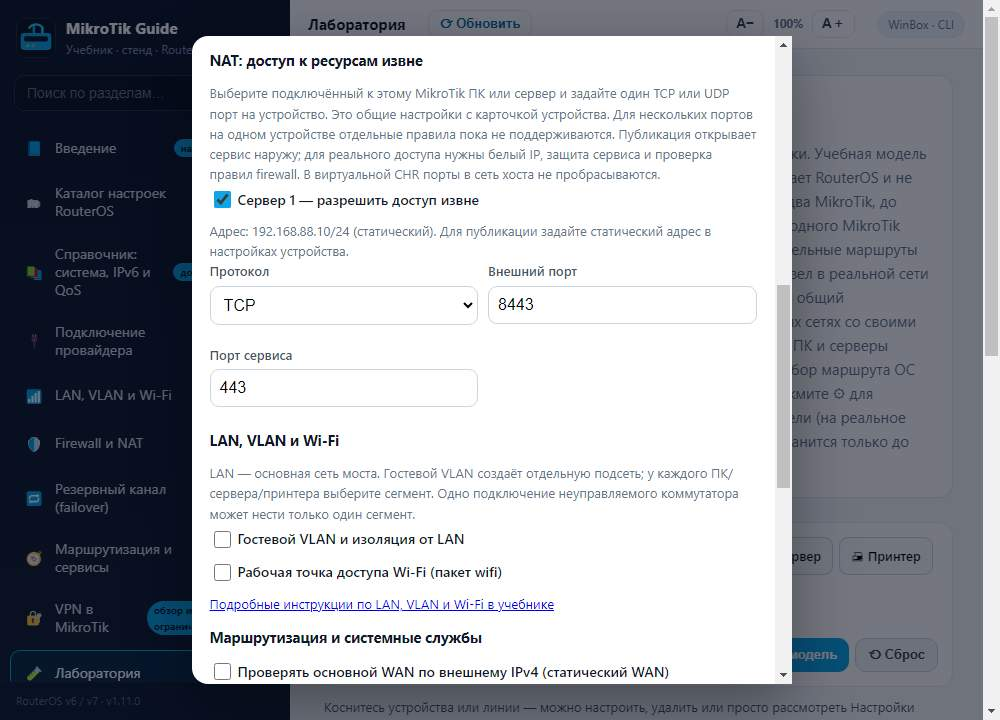
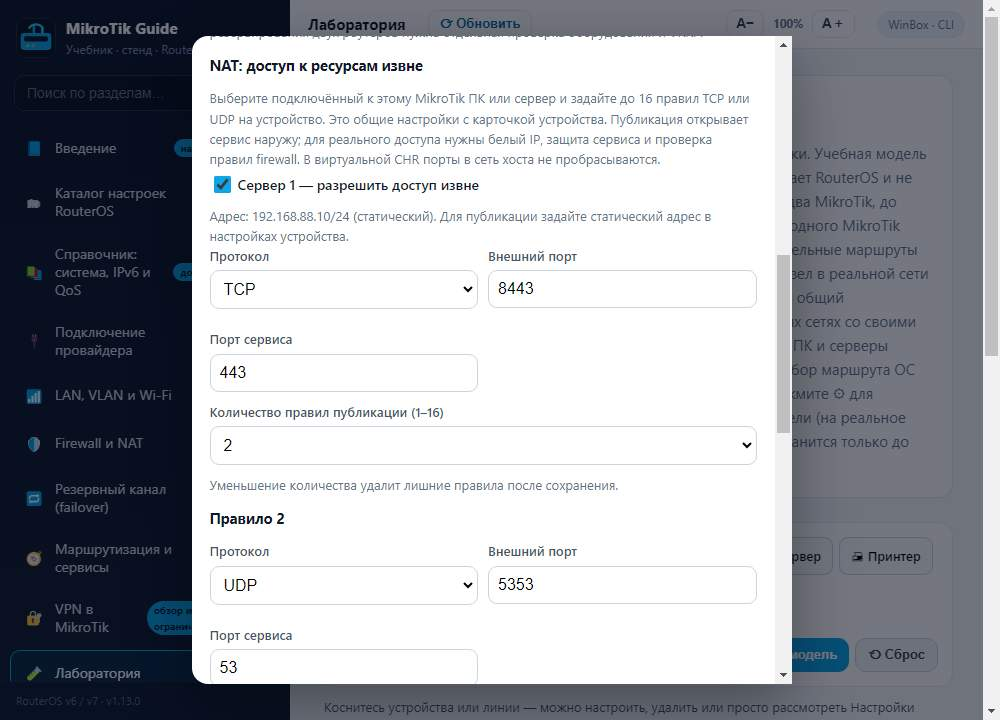
Обновить собственный снимок нескольких NAT-правил

Changed region(s): [[0.186, 0.0611, 0.744, 0.9472], [0.775, 0.5806, 0.806, 0.6722], [0.775, 0.3361, 0.806, 0.3972]]

diff --git a/app/assets/img/own/SOURCES.md b/app/assets/img/own/SOURCES.md
@@ -4,4 +4,4 @@
 
 Источник ПО: https://mikrotik.com/download и https://help.mikrotik.com/docs/spaces/ROS/pages/18350234/Cloud+Hosted+Router+CHR. Необрезанная копия была проверена визуально; файл предоставляется как снимок интерфейса ПО MikroTik, а не как нарисованный макет. Права на программный интерфейс принадлежат MikroTik.
 
-`router-nat-windows.jpg` — собственный снимок интерфейса лаборатории приложения на одноразовом Windows GitHub Actions runner, [запуск 41067949283](https://github.com/zigorminsk-debug/mikrotik/actions/runs/41067949283). Показаны демонстрационные настройки TCP 8443 → 443 для тестового сервера 192.168.88.10/24. Это окно приложения, не снимок WebFig и не доказательство доступности сервера.
+`router-nat-windows.jpg` — собственный снимок интерфейса лаборатории приложения на одноразовом Windows GitHub Actions runner, [запуск 41072005065](https://github.com/zigorminsk-debug/mikrotik/actions/runs/41072005065). Показаны демонстрационные настройки TCP 8443 → 443 и UDP 5353 → 53 для тестового сервера 192.168.88.10/24. Это окно приложения, не снимок WebFig и не доказательство доступности сервера.
